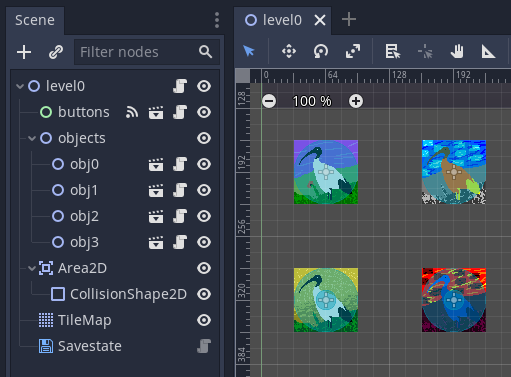
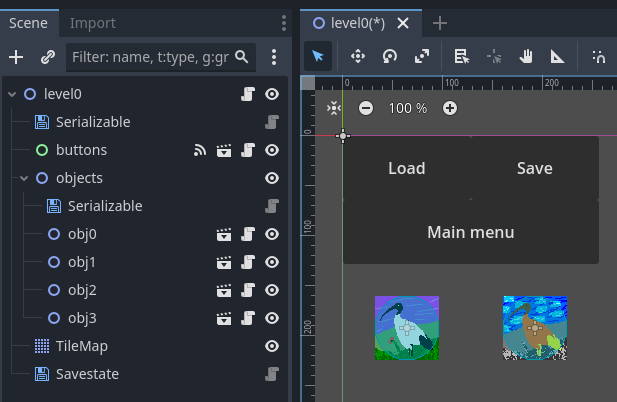
Update docs

diff --git a/docs/index.html b/docs/index.html
@@ -82,8 +82,8 @@
     <h1 id="explained">Explanation</h1>
     <p class="with-indent">Any save game system works by taking all of the information stored by the game objects, packs them in such a way that they can be saved to the disk and afterwards it can be retrieved from the disk and repopulate that information back into the game objects or levels.</p>
     <p class="with-indent">This system is designed in such a way so any kind of game would be able to use it. This is done by enforcing a small amount of constraints on how the levels and the objects should be stored on the disk.</p>
-    <p class="with-indent">The plugin introduces a new Godot game object called a Savestate, which is also tied to a filename and is able to store the game state at any given point in time. You can add variables to this save state, or you can add levels. If you have multiple levels in your game, it can also save separate entries for each of the levels. The constraint done on the levels is that all levels should contain collections, and the collections are the actual Node that contains the game objects. For example a level could have a collection of bullets and the collection of enemies and maybe the save game wouldn't save the bullets, but it is important that all game objects are children to one of these Node object.  The node object we are talking about is either a Node, Spatial or Node2d,  depending on the use case and how the game objects are being used, but it's very important to be grouped as such.</p>
-    <p class="with-indent">Marking an object to be saved to the disk is done by simply declaring which variables need to be saved. This is done by creating a <u class="underline-godot">serializable</u> variable and add inside of it the names of the variables that need to be saved into the save file. In the same manner the levels will have a <u class="underline-godot">serializable_collections</u> is variable that needs to be populated with the names of the collections.</p>
+    <p class="with-indent">The plugin introduces a new Godot game object called a Savestate, which is also tied to a filename and is able to store the game state at any given point in time. You can add variables to this save state, or you can add levels. If you have multiple levels in your game, it can also save separate entries for each of the levels. </p>
+    <p class="with-indent">Marking an object to be saved to the disk is done by simply adding a <u class="underline-godot">Serializable</u> Node as child to the node you want to save. Inside this node you can also declare which variables need to be saved. </p>
     <p class="with-indent">After the Savestate object has been informed on which variables and objects needs to be saved, by just calling a simple function, detailed below, that state is saved to the disk and later on it can be loaded, all that information ready to be repopulated in the original objects.</p>
     <p class="with-indent">Because the system is also capable of handling variables which are not tied to levels or objects,  means that the system can also be used to save the configuration of the game itself. As previously mentioned the only thing that needs to be done is to mark the relevant variables and pack them to the Savestate.</p>
     <hr>
@@ -92,17 +92,13 @@
     <p class="with-indent">This tutorial is not supposed to explain the more complicated cases where the game would have multiple maps, open world or other special settings. The tutorial is destined to explain the most basic use case, which means saving variables and saving object states.</p>
     <p class="with-indent">First of all we will need to have a scene for the level itself, that has buttons meant to be clicked in order to load & save. This level scene will contain one collection (which is a Node2D in this example) that will contain the objects that we want to save.</p>
     <p class="center-img"><img src="level0.png"></img></p>
-    <p class="with-indent">The <u class="underline-godot">buttons</u> node contains buttons that when clicked will trigger the load & save functions. Node name <u class="underline-godot">objects</u> contains the objects that will get serialized and saved in the file. Any changes to these will be saved.</p>
+    <p class="with-indent">The <u class="underline-godot">buttons</u> node contains buttons that when clicked will trigger the load & save functions. Node name <u class="underline-godot">objects</u> contains the objects that will get serialized and saved in the file. Any changes to these will be saved. That is because of the Serializable node that we've added to this set of nodes, if you notice also the Serializable node is configured to serialize the children too.</p>
+    <p class="center-img"><img src="inspector.png"></img></p>
     <p class="with-indent">Node called <u class="underline-godot">Savestate</u> is the one which is responsible for loading and saving the data. For this to work, we first need to input the filename of the save first by completing the field in the Inspector.<br>(This can also be done programatically by changing the variable <u class="underline-godot">save_filename</u> of the Savestate node)</p>
 
     <p class="center-img"><img src="savestate.png"></img></p>
     <p class="with-indent">Here is the code that will handle the events from the load & save buttons:</p>
     <pre><code class="language-gdscript">extends Node2D
-
-# declare that all game objects from the collection called objects should be saved
-const serializable_collections = [
-	"objects"
-]
 
 # when the load button is pressed
 func _on_buttons_load_pressed():

diff --git a/README.MD b/README.MD
@@ -1,3 +1,6 @@
 Documentation : https://stupidratstudio.github.io/thoth/
 
-Contact & Support : https://discord.gg/xFc5Gyd5gU
+Contact & Support : https://discord.gg/FX5NaQHcjS
+
+Help me by wishlisting & playing my game : https://www.stupidrat.com/senseless
+Or if you wish you can pledge and support me through Patreon : https://www.patreon.com/c64cosmin
